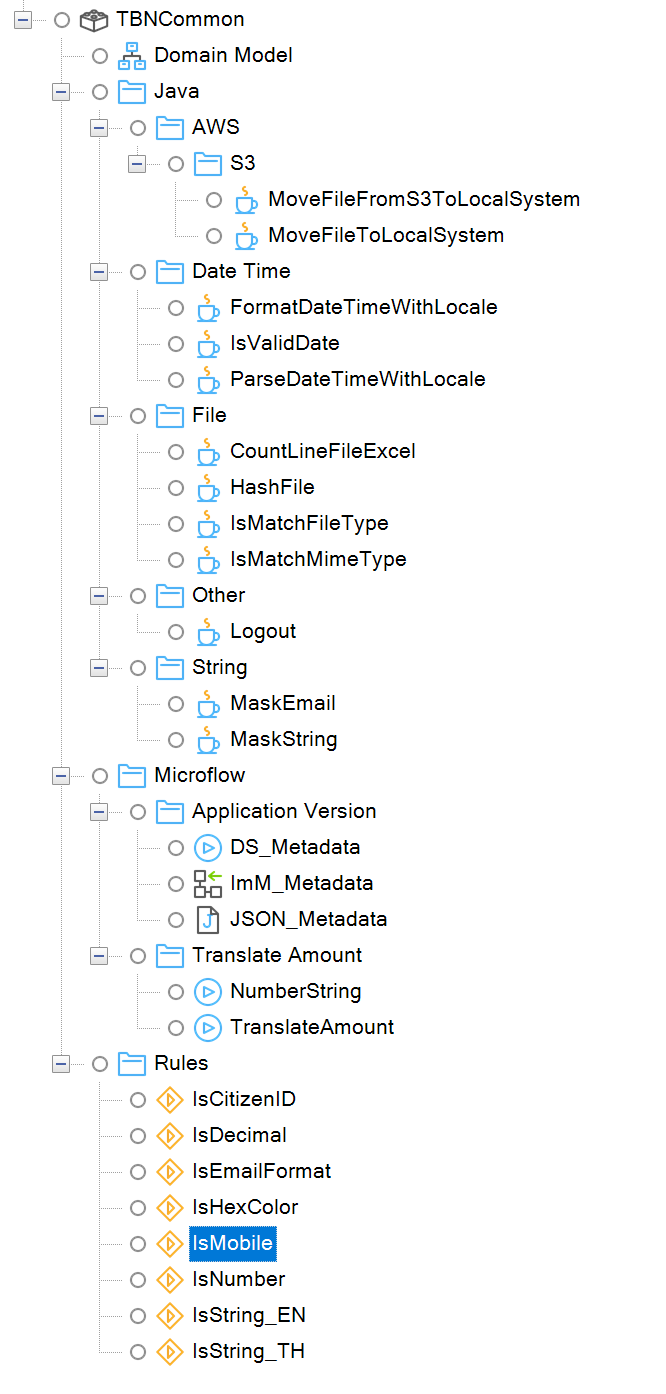
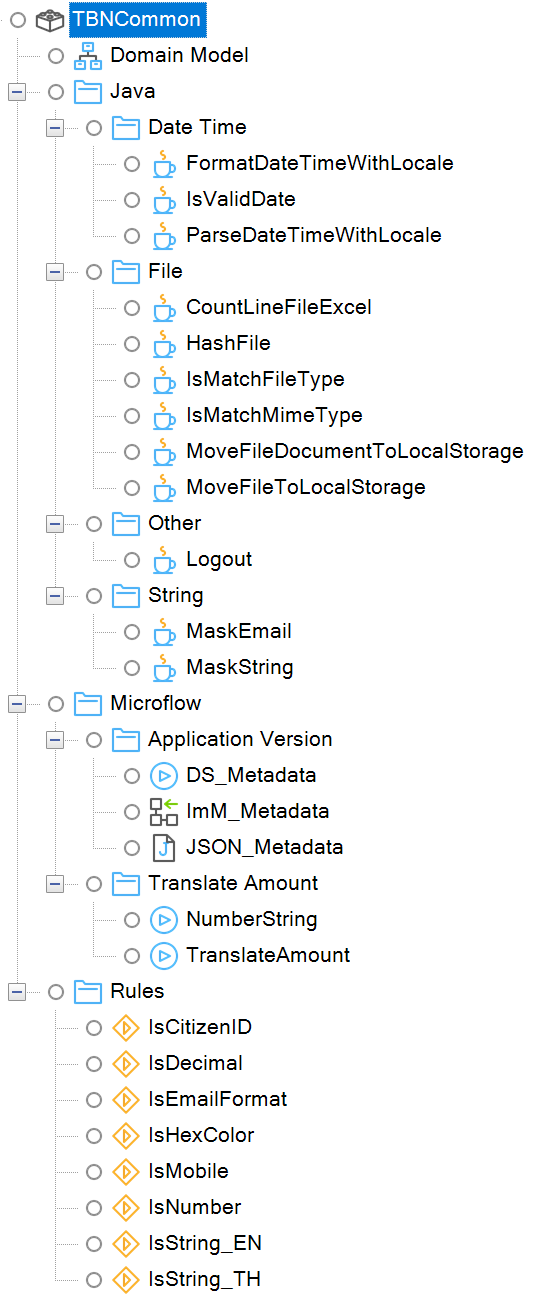
add new screenshot

diff --git a/README.md b/README.md
@@ -12,7 +12,7 @@ This module adds a number reusable Java methods to your project, which can be ca
 - mimemagic-0.1.0.jar
   
 ## Function List
-### AWS
+### 
 #### S3
 
   *MoveFileFromS3ToLocalSystem* - Copy file from S3 with Mendix condfiguration to locale storage by Mendix structure.
